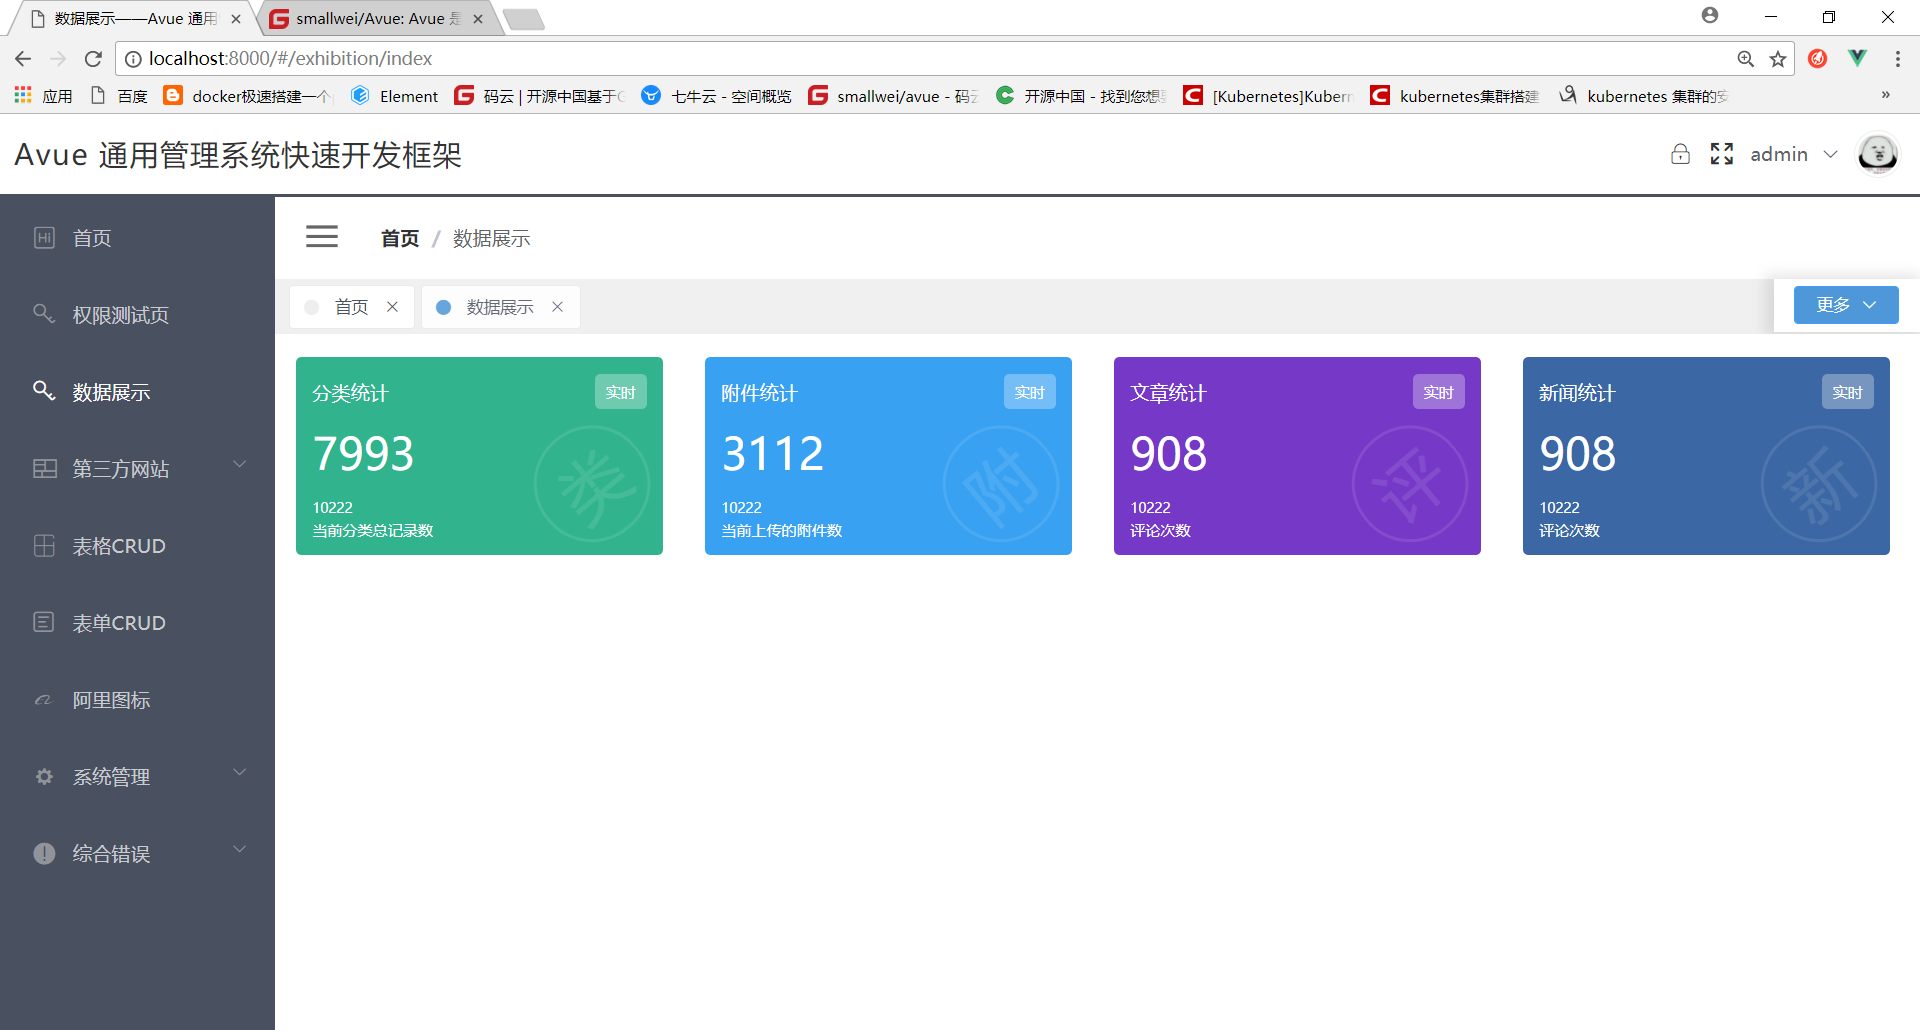
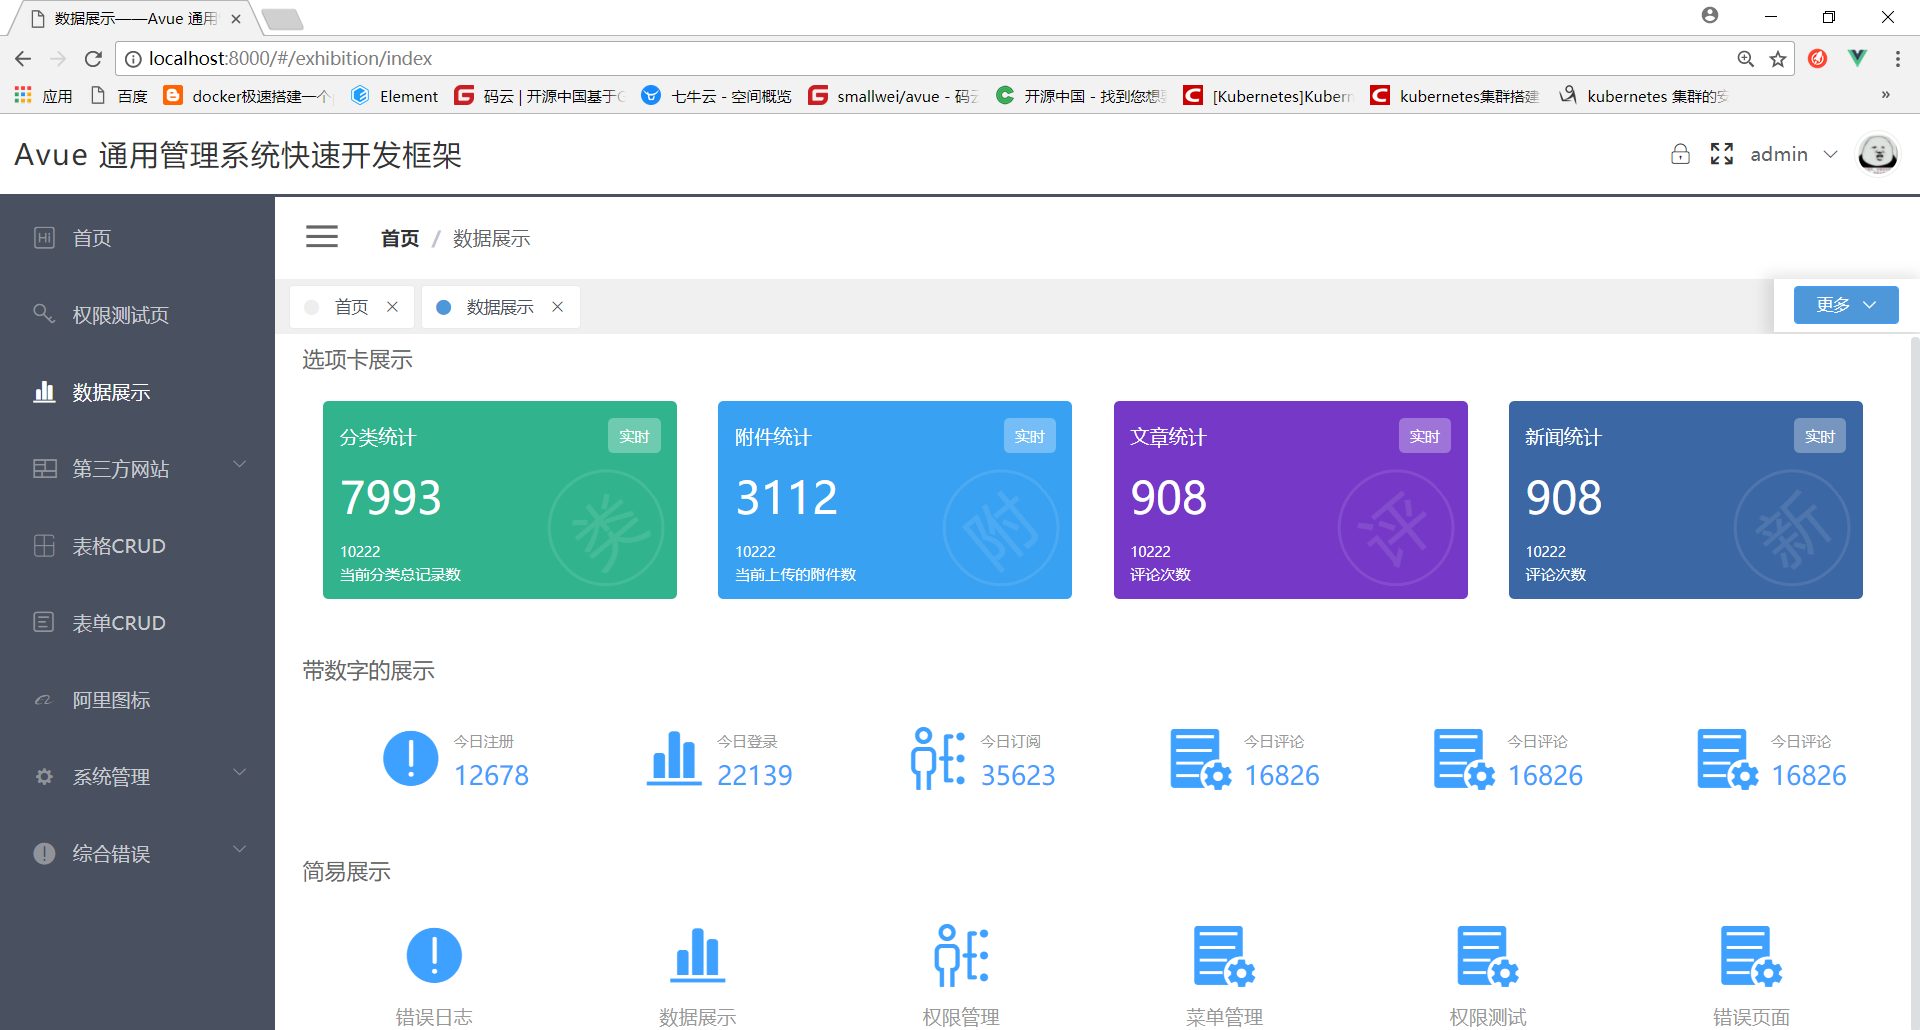
增加多种数据展示方式

diff --git a/src/page/exhibition/index.vue b/src/page/exhibition/index.vue
@@ -1,5 +1,6 @@
 <template>
-  <div class="pull-height">
+  <div class="exhibition-contailer  pull-chheight">
+    <h4>选项卡展示</h4>
     <el-row :span="24">
       <template v-for="item in dataOption">
         <el-col :span="6">
@@ -7,16 +8,25 @@
         </el-col>
       </template>
     </el-row>
-
+    <div class="pull-auto" style="margin-top:20px;">
+      <h4>带数字的展示</h4>
+      <easyData :option="easyDataOption1"></easyData>
+    </div>
+    <div class="pull-auto" style="margin-top:20px;">
+      <h4>简易展示</h4>
+      <easyData :option="easyDataOption2"></easyData>
+    </div>
   </div>
 </template>
 
 <script>
 import Datashow from "@/components/datashow/";
+import easyData from "@/components/datashow/easyData";
 export default {
   name: "exhibition",
   components: {
-    Datashow
+    Datashow,
+    easyData
   },
   data() {
     return {
@@ -57,7 +67,74 @@ export default {
           color: "rgb(59, 103, 164)",
           key: "新"
         }
-      ]
+      ],
+      easyDataOption1: {
+        color: "rgb(63, 161, 255)",
+        span: 4,
+        data: [
+          {
+            title: "今日注册",
+            count: 12678,
+            icon: "icon-cuowu"
+          },
+          {
+            title: "今日登录",
+            count: 22139,
+            icon: "icon-shujuzhanshi2"
+          },
+          {
+            title: "今日订阅",
+            count: 35623,
+            icon: "icon-jiaoseguanli"
+          },
+          {
+            title: "今日评论",
+            count: 16826,
+            icon: "icon-caidanguanli"
+          },
+          {
+            title: "今日评论",
+            count: 16826,
+            icon: "icon-caidanguanli"
+          },
+          {
+            title: "今日评论",
+            count: 16826,
+            icon: "icon-caidanguanli"
+          }
+        ]
+      },
+      easyDataOption2: {
+        color: "rgb(63, 161, 255)",
+        span: 4,
+        discount: true,
+        data: [
+          {
+            title: "错误日志",
+            icon: "icon-cuowu"
+          },
+          {
+            title: "数据展示",
+            icon: "icon-shujuzhanshi2"
+          },
+          {
+            title: "权限管理",
+            icon: "icon-jiaoseguanli"
+          },
+          {
+            title: "菜单管理",
+            icon: "icon-caidanguanli"
+          },
+          {
+            title: "权限测试",
+            icon: "icon-caidanguanli"
+          },
+          {
+            title: "错误页面",
+            icon: "icon-caidanguanli"
+          }
+        ]
+      }
     };
   },
   created() {},
@@ -68,5 +145,7 @@ export default {
 </script>
 
 <style scoped>
-
+.exhibition-contailer {
+  padding: 0 20px;
+}
 </style>

diff --git a/src/components/datashow/easyData.vue b/src/components/datashow/easyData.vue
@@ -1,0 +1,77 @@
+<template>
+  <div class="pull-auto easyData-contailer">
+    <el-row :span="24">
+      <template v-for="item in data">
+        <el-col :span="span">
+          <div class="item" :class="[{'item--easy':discount}]">
+            <div class="item-icon" :style="{color:color}">
+              <i :class="item.icon"></i>
+            </div>
+            <div class="item-info">
+              <span>{{item.title}}</span>
+              <h3 :style="{color:color}">{{item.count}}</h3>
+            </div>
+          </div>
+        </el-col>
+      </template>
+    </el-row>
+  </div>
+</template>
+
+<script>
+export default {
+  name: "easyData",
+  data() {
+    return {
+      span: this.option.span || 6,
+      data: this.option.data,
+      color: this.option.color || "rgb(63, 161, 255)",
+      discount: this.option.discount || false
+    };
+  },
+  props: {
+    option: {
+      type: Object,
+      default: {}
+    }
+  }
+};
+</script>
+
+<style lang="scss" scoped>
+.easyData-contailer {
+}
+.item {
+  display: flex;
+  align-items: center;
+  justify-content: space-between;
+  width: 80px;
+  margin: 0 auto;
+}
+.item-icon {
+  margin-top: 3px;
+  margin-right: 8px;
+  & > i {
+    font-size: 46px !important;
+  }
+}
+.item-info {
+  line-height: 25px;
+  & > span {
+    color: #999;
+    font-size: 11px;
+  }
+}
+.item--easy {
+  flex-direction: column;
+  & > .item-icon {
+    margin: 0;
+  }
+  & > .item-info {
+    margin-top: -15px;
+    & > span {
+      font-size: 14px;
+    }
+  }
+}
+</style>

diff --git a/src/config/env.js b/src/config/env.js
@@ -12,7 +12,7 @@
 
 
 let baseUrl = '';
-let iconfontVersion = 'j0ic7mgvwddt2o6r';
+let iconfontVersion = 'lgiis24af44bcsor';
 let iconfontUrl = `//at.alicdn.com/t/font_567566_${iconfontVersion}.css`;
 let codeUrl = `${baseUrl}/code`
 if (process.env.NODE_ENV == 'development') {

diff --git a/src/mock/menu.js b/src/mock/menu.js
@@ -21,7 +21,7 @@ export const menu = [{
   id: 14,
   label: "数据展示",
   href: '/exhibition/index',
-  icon: 'icon-quanxian',
+  icon: 'icon-shujuzhanshi2',
   meta: {
     roles: ['admin'],
   },

diff --git a/src/components/datashow/index.vue b/src/components/datashow/index.vue
@@ -40,7 +40,6 @@ export default {
   position: relative;
   margin: 15px;
   padding: 12px;
-  min-width: 260px;
   height: 144px;
   border-radius: 4px;
   box-sizing: border-box;

diff --git a/README.md b/README.md
@@ -11,7 +11,7 @@ github地址：[https://github.com/nmxiaowei/avue](https://github.com/nmxiaowei/
 
 ## 简介
 
-`avue` 是一个后台集成解决方案支持SSR(服务端渲染)和SPA(单例页面),它基于 [Vue.js](https://github.com/vuejs/vue) 和 [element](https://github.com/ElemeFE/element)。它使用了最新的前端技术栈，权限验证，第三方网站嵌套等功能，很多功能还在开发，敬请期待<br /><br />
+`avue` 是一个类似easyui那种去写vue的方案支持SSR(服务端渲染)和SPA(单例页面),全部基于json可配置化去开发界面，节约开发成本和提高开发效率，基本构成由 [Vue.js](https://github.com/vuejs/vue) 和 [element](https://github.com/ElemeFE/element)。它使用了最新的前端技术栈，权限验证，第三方网站嵌套等功能，很多功能还在开发，敬请期待<br /><br />
 `1.vuex本地持久化存储,封装h5的sessionStorage和localStorage`<br /><br />
 `2.加入了本地离线的包引入方法去引入vue，vue-router等第三方包` [详细介绍](https://my.oschina.net/sunshineS/blog/1583563)<br /><br />
 `3.支持SSR服务端渲染(express)`[vue-server-renderer](https://ssr.vuejs.org/zh/)<br /><br />
@@ -118,6 +118,7 @@ github地址：[https://github.com/nmxiaowei/avue](https://github.com/nmxiaowei/
 - vuex持久化存储
 - 锁屏
 - SSR渲染页面
+- 数据展示
 - 登录/注销
  - 用户名登录
  - 验证码登录
